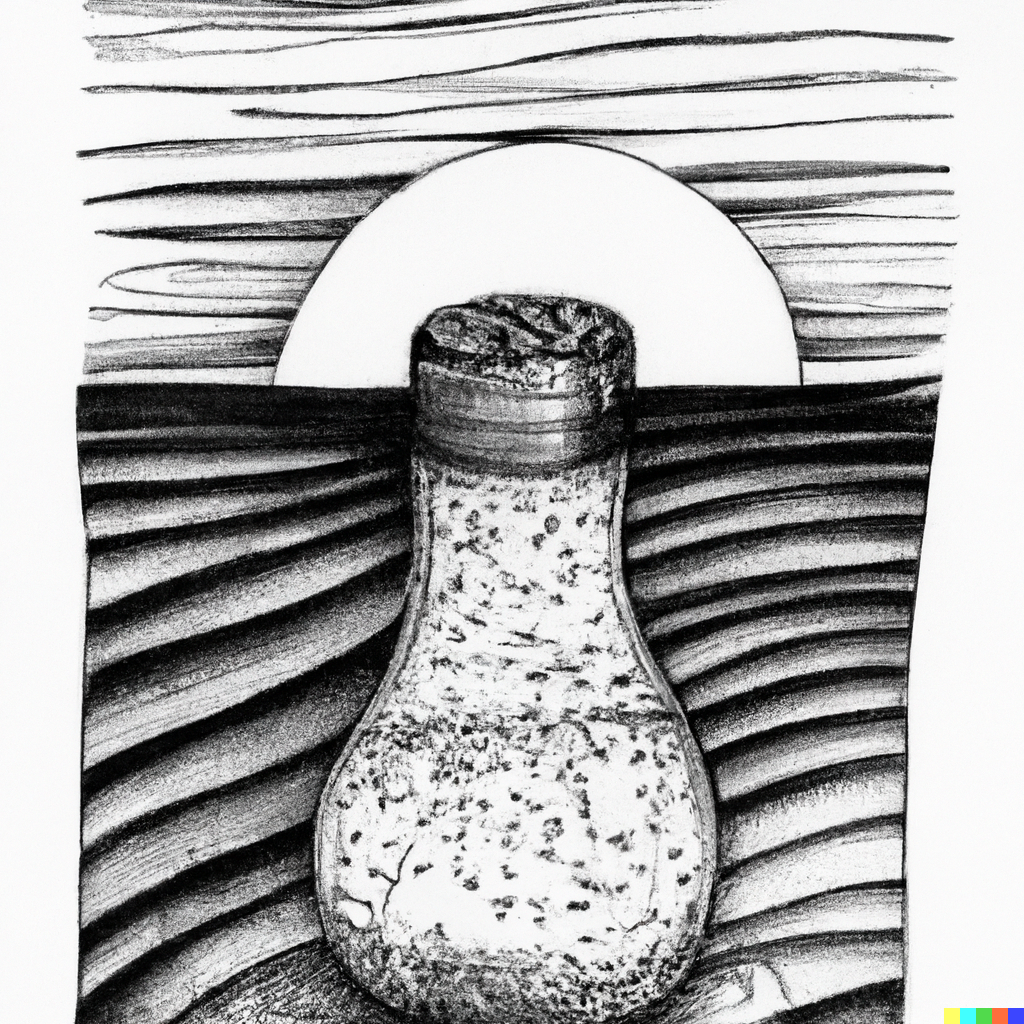
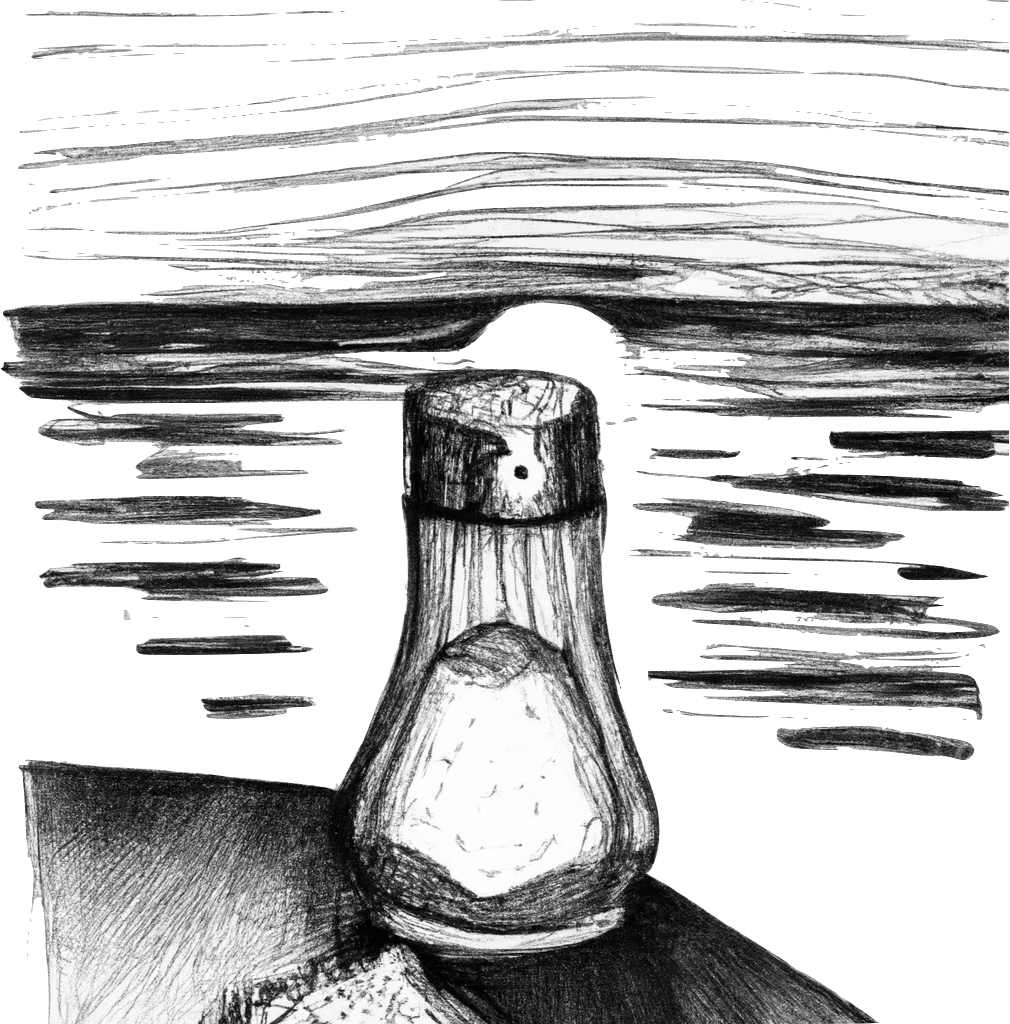
done with 404 only

diff --git a/public/404.html b/public/404.html
@@ -1,22 +1,23 @@
 <!DOCTYPE html>
 <html lang="en">
 <head>
-  <title>The page you were looking for doesn't exist (404)</title>
+  <title>404 Error</title>
   <meta charset="utf-8">
   <meta name="viewport" content="width=device-width,initial-scale=1">
   <link href="https://cdn.jsdelivr.net/npm/bootstrap@5.2.1/dist/css/bootstrap.min.css" rel="stylesheet" integrity="sha384-iYQeCzEYFbKjA/T2uDLTpkwGzCiq6soy8tYaI1GyVh/UjpbCx/TYkiZhlZB6+fzT" crossorigin="anonymous">
 </head>
 
-<body class="rails-default-error-page">
+<body class="rails-default-error-page" style="background-color: #F9F9F8;">
   <!-- This file lives in public/404.html -->
-  <div class="container">
-    <div class="row border m-5">
-      <div class="alert alert-primary text-center" role="alert">
-        <h1>The page you were looking for doesn't exist.</h1>
+  <div class="container d-flex justify-content-center align-items-center mt-5">
+    <div class="row">
+      <div class="alert text-center" role="alert">
+        <h1>The page you're looking for doesn't exist.</h1>
         <p>Too much salt with wine is never a good idea!</p>
       </div>
-
-      <img src="images/404-dalle-drawing.png" alt="" width="300">
+      <div class="d-flex justify-content-center align-items-center">
+        <img src="images/404-dalle-drawing.png" alt="error image" style="height:400px;width:auto;">
+      </div>
     </div>
   </div>
 <link href="https://cdn.jsdelivr.net/npm/bootstrap@5.2.1/dist/css/bootstrap.min.css" rel="stylesheet" integrity="sha384-iYQeCzEYFbKjA/T2uDLTpkwGzCiq6soy8tYaI1GyVh/UjpbCx/TYkiZhlZB6+fzT" crossorigin="anonymous">

diff --git a/public/500.html b/public/500.html
@@ -1,22 +1,22 @@
 <!DOCTYPE html>
 <html lang="en">
 <head>
-  <title>Internal Server Error (Code 500)</title>
+  <title>500 Error</title>
   <meta charset="utf-8">
   <meta name="viewport" content="width=device-width,initial-scale=1">
   <link href="https://cdn.jsdelivr.net/npm/bootstrap@5.2.1/dist/css/bootstrap.min.css" rel="stylesheet" integrity="sha384-iYQeCzEYFbKjA/T2uDLTpkwGzCiq6soy8tYaI1GyVh/UjpbCx/TYkiZhlZB6+fzT" crossorigin="anonymous">
 </head>
 
-<body class="rails-default-error-page">
+<body class="rails-default-error-page" style="background-color: #F9F9F8;">
   <!-- This file lives in public/500.html -->
-  <div class="container">
-    <div class="row border m-5">
-      <div class="alert alert-primary text-center" role="alert">
+  <div class="container d-flex justify-content-center align-items-center mt-5">
+    <div class="row">
+      <div class="alert text-center" role="alert">
         <h1>Internal Server Error</h1>
         <p>There is something wrong with the server, try again!</p>
+      <div class="d-flex justify-content-center align-items-center">
+        <img src="images/500-dalle-drawing.png" alt="error image" style="height:400px;width:auto;">
       </div>
-
-      <img src="images/500-dalle-drawing.png" alt="" width="300">
     </div>
   </div>
 <link href="https://cdn.jsdelivr.net/npm/bootstrap@5.2.1/dist/css/bootstrap.min.css" rel="stylesheet" integrity="sha384-iYQeCzEYFbKjA/T2uDLTpkwGzCiq6soy8tYaI1GyVh/UjpbCx/TYkiZhlZB6+fzT" crossorigin="anonymous">
